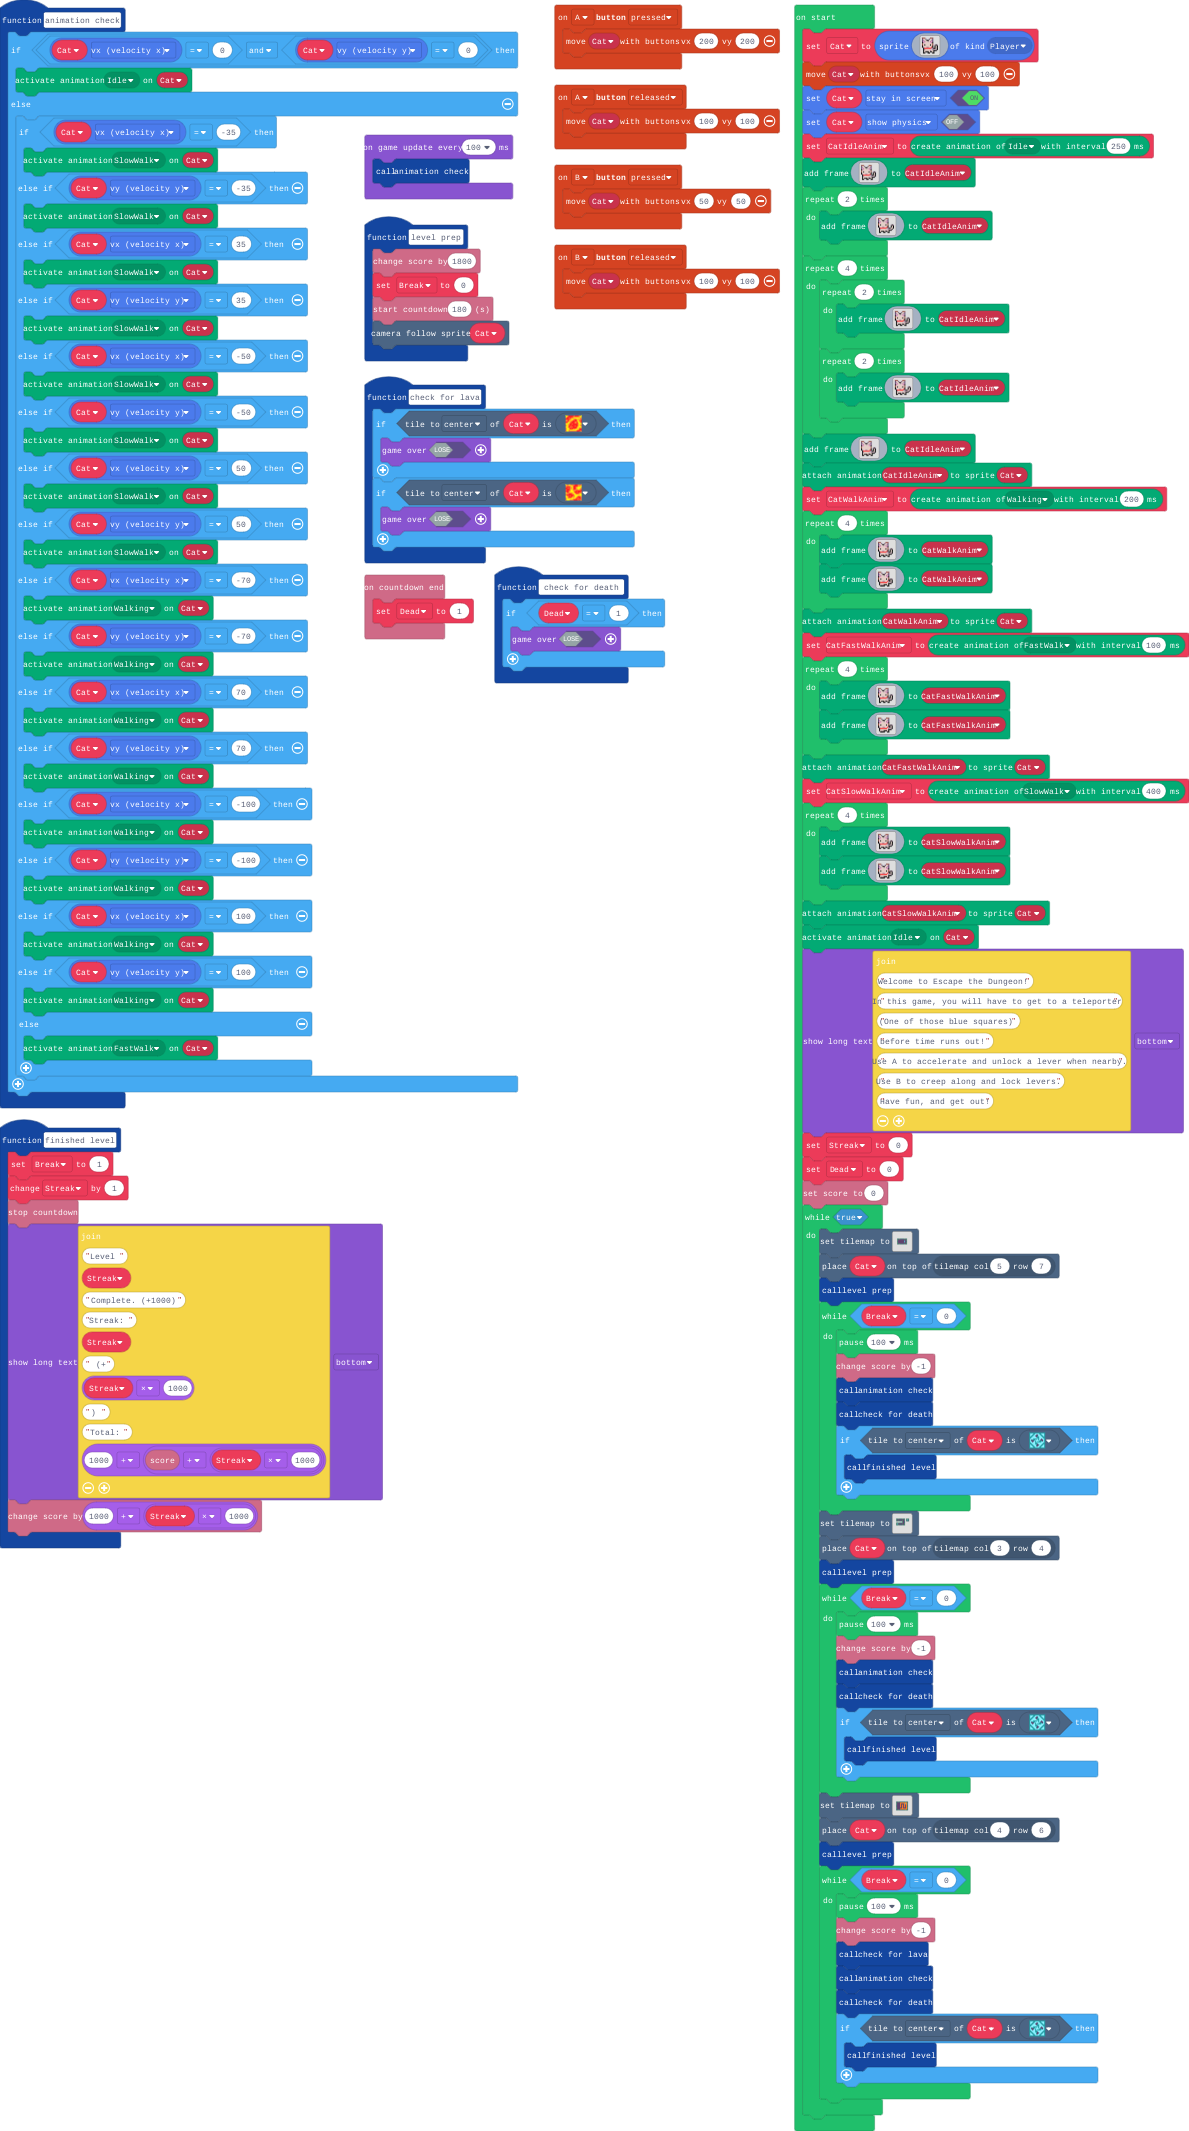
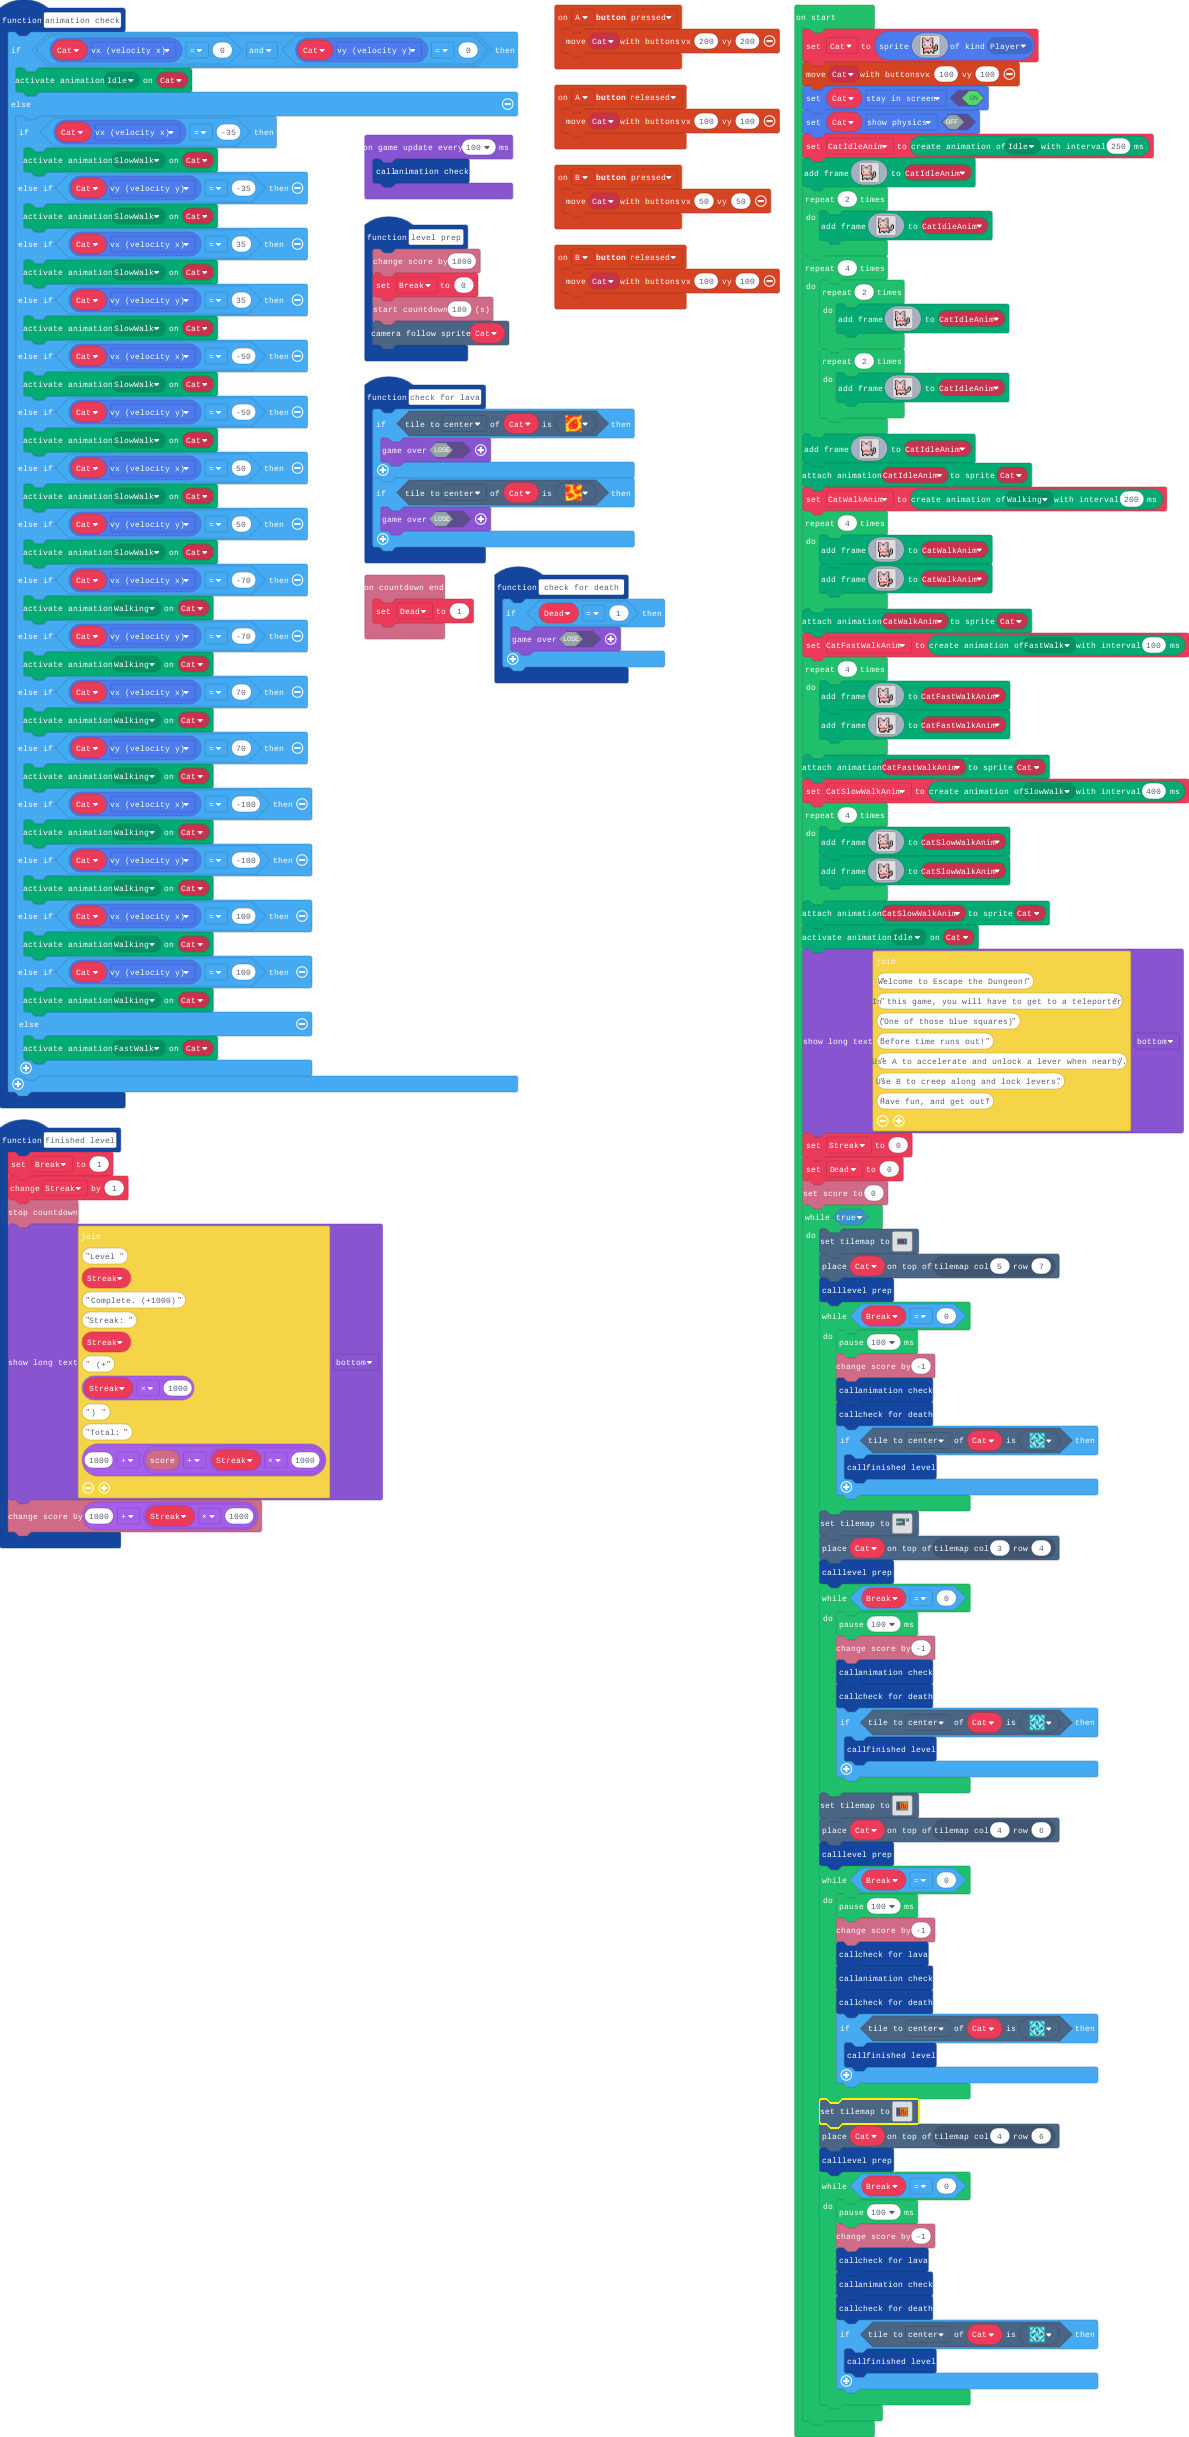
Update main.blocks, main.ts

diff --git a/main.ts b/main.ts
@@ -438,6 +438,41 @@ while (true) {
             finished_level()
         }
     }
+    tiles.setTilemap(tiles.createTilemap(
[1 lines of base64/hex data omitted]
+            img`
+2 2 2 2 2 2 2 2 2 2 2 2 2 2 2 2 
+2 2 2 2 2 2 2 2 2 2 2 2 2 2 2 2 
+2 2 2 2 2 2 2 2 2 2 2 2 2 2 2 2 
+2 2 2 2 2 2 2 2 2 2 2 2 2 2 2 2 
+2 2 2 2 2 2 2 2 2 2 2 2 2 2 2 2 
+2 2 2 . . . . . . . . . . 2 2 2 
+2 2 2 . . . . . . . . . . 2 2 2 
+2 2 2 . . . . . . . . . . 2 2 2 
+2 2 2 . . . . . . . . . . 2 2 2 
+2 2 2 . . . . . . . . . . 2 2 2 
+2 2 2 . . . . . . . . . . 2 2 2 
+2 2 2 . . . . . . . . . . 2 2 2 
+2 2 2 2 2 2 2 2 2 2 2 2 2 2 2 2 
+2 2 2 2 2 2 2 2 2 2 2 2 2 2 2 2 
+2 2 2 2 2 2 2 2 2 2 2 2 2 2 2 2 
+2 2 2 2 2 2 2 2 2 2 2 2 2 2 2 2 
+`,
+            [myTiles.tile0,sprites.dungeon.darkGroundNorthWest0,sprites.dungeon.darkGroundWest,sprites.dungeon.darkGroundSouthWest0,sprites.dungeon.darkGroundNorth,sprites.dungeon.darkGroundNorthEast0,sprites.dungeon.darkGroundSouthEast0,sprites.dungeon.darkGroundEast,sprites.dungeon.darkGroundSouth,sprites.dungeon.darkGroundCenter,sprites.dungeon.greenOuterNorth0,sprites.dungeon.greenOuterNorth1,sprites.dungeon.greenOuterNorthWest,sprites.dungeon.greenOuterNorthEast,sprites.dungeon.greenOuterSouthWest,sprites.dungeon.greenOuterSouthEast,sprites.dungeon.greenOuterWest1,sprites.dungeon.greenOuterWest0,sprites.dungeon.greenOuterSouth0,sprites.dungeon.greenOuterSouth1,sprites.dungeon.greenOuterEast0,sprites.dungeon.greenOuterEast1,sprites.dungeon.greenOuterNorth2,sprites.dungeon.greenOuterSouth2,sprites.dungeon.greenOuterEast2,sprites.dungeon.greenOuterWest2,sprites.dungeon.collectibleInsignia,sprites.castle.tilePath3,sprites.dungeon.chestClosed,sprites.dungeon.darkGroundNorthWest1,sprites.dungeon.hazardLava0,sprites.dungeon.hazardLava1],
+            TileScale.Sixteen
+        ))
+    tiles.placeOnTile(Cat, tiles.getTileLocation(4, 6))
+    level_prep()
+    while (Break == 0) {
+        pause(100)
+        info.changeScoreBy(-1)
+        check_for_lava()
+        animation_check()
+        check_for_death()
+        if (Cat.tileKindAt(TileDirection.Center, sprites.dungeon.collectibleInsignia)) {
+            finished_level()
+        }
+    }
 }
 game.onUpdateInterval(100, function () {
     animation_check()
